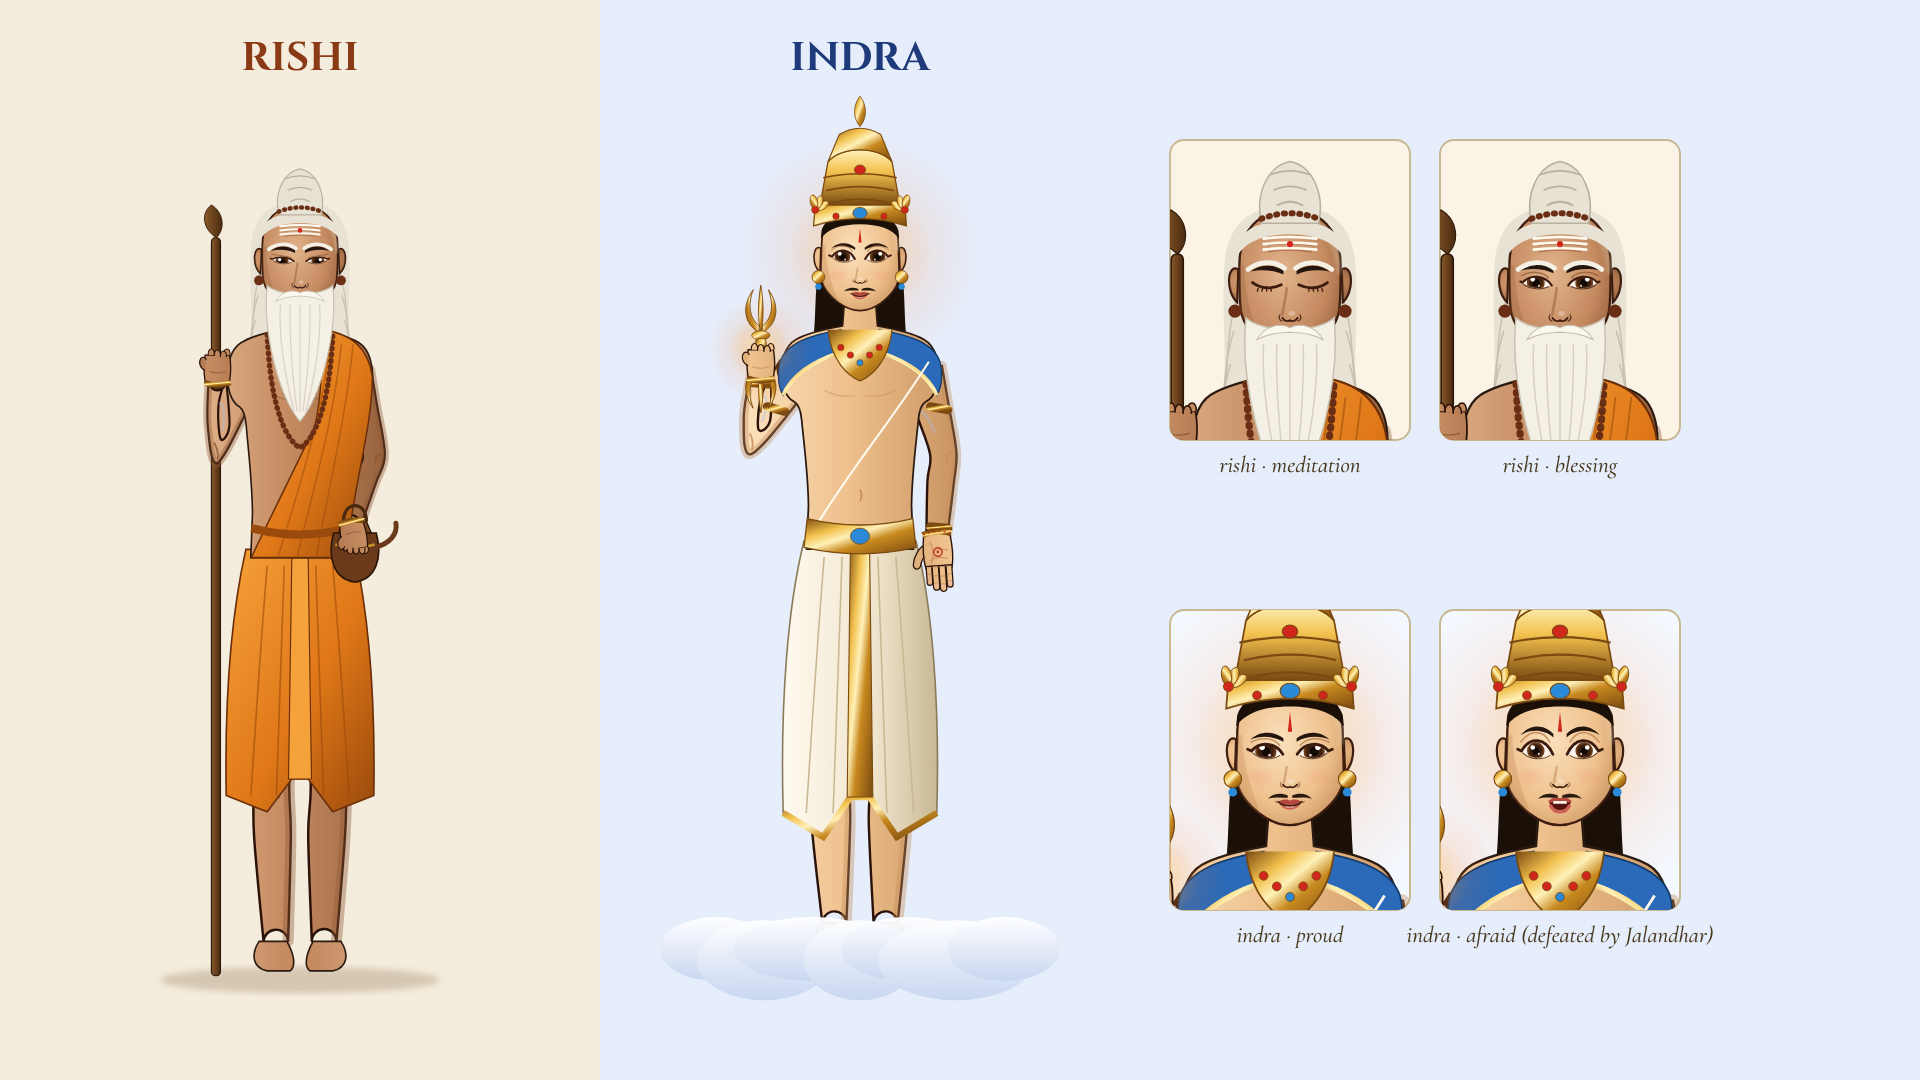
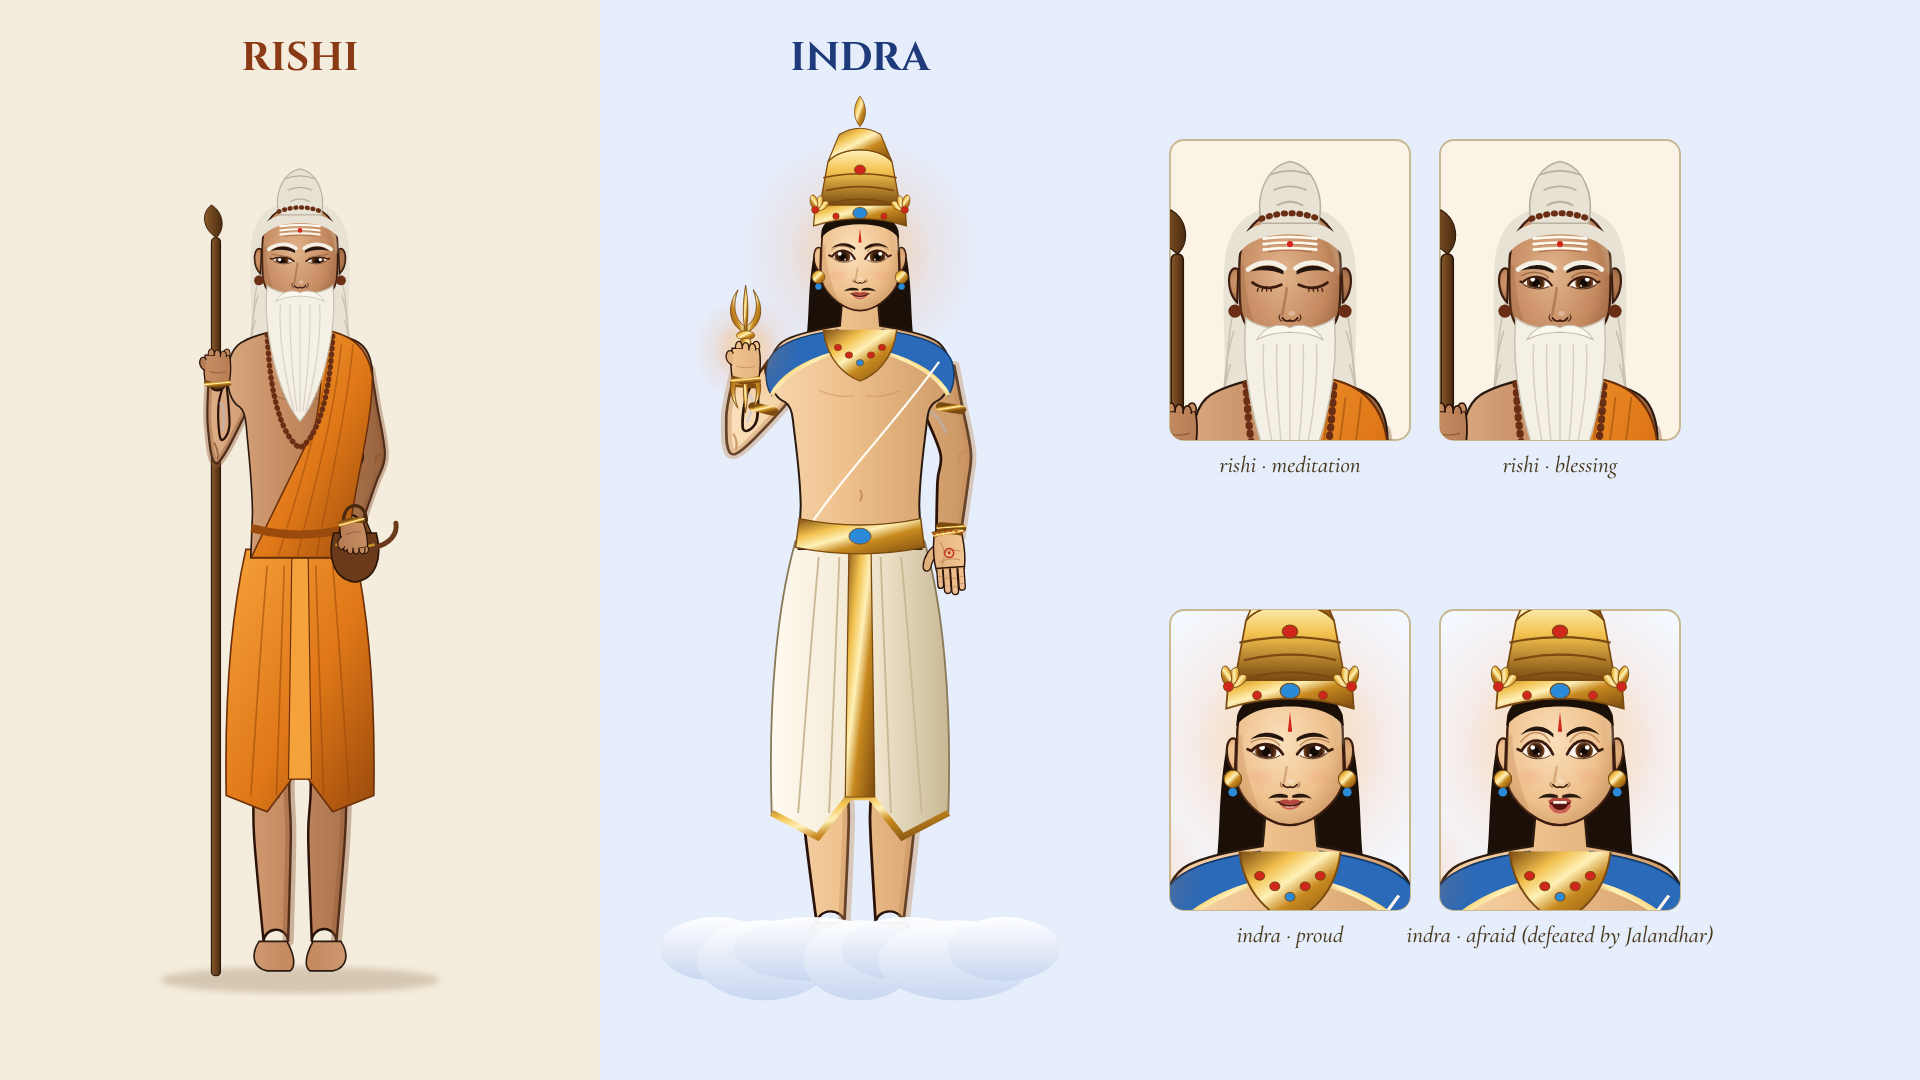
Indra: body 15% fuller
Claude-Session: https://claude.ai/code/session_01X3ArEdZK7W9b78YVvUKCgo

Changed region(s): [[0.375, 0.275, 0.5312, 0.8556], [0.5938, 0.7333, 0.875, 0.8556]]

diff --git a/devotional-studio/style-frames/rishi-indra.js b/devotional-studio/style-frames/rishi-indra.js
@@ -116,6 +116,7 @@ function indra(x, y, s, o = {}) {
   const clouds = [...Array(7)].map((_, i) => `<ellipse cx="${-180 + i * 60}" cy="${930 + (i % 2) * 14}" rx="${70 + (i % 3) * 14}" ry="${40 + (i % 2) * 10}" fill="url(#cloud)" opacity=".96"/>`).join('');
   return `<g transform="translate(${x},${y}) scale(${s})">
     <circle cx="0" cy="60" r="150" fill="url(#lampGlow)" opacity=".6"/>
+    <g transform="scale(1.15,1)">
     ${legs(SK, SH)}
     <!-- white silk dhoti with gold border -->
     <path d="M-70 420 C -90 500 -100 620 -96 760 L -46 790 L -12 740 L 12 740 L 46 790 L 96 760 C 100 620 90 500 70 420Z" fill="url(#silkW)" stroke="#8a7a5a" stroke-width="2"/>
@@ -136,14 +137,15 @@ function indra(x, y, s, o = {}) {
     <path d="M86 196 C 40 270 -20 340 -60 410" stroke="#fffaf0" stroke-width="2.6" fill="none"/>
     <path d="M-66 392 Q 0 408 66 392 L 70 428 Q 0 444 -70 428Z" fill="url(#gold)" stroke="#7a4a10" stroke-width="1.6"/>
     <ellipse cx="0" cy="414" rx="12" ry="10" fill="#2a8ad8" stroke="#7a4a10"/>
+    </g>
     ${F.faceP(face)}
     <path d="M-48 32 C -44 18 -28 12 0 12 C 28 12 44 18 48 32 L 49 42 C 40 30 24 24 0 24 C -24 24 -40 30 -49 42Z" fill="#1a1008"/>
     <path d="M-2 ${by - 4} L 0 ${by - 22} L 2 ${by - 4}Z" fill="#d1261c"/>
     ${crown}
     ${[-1, 1].map(sx => `<g transform="translate(${sx * 52},90)"><circle r="8" fill="url(#gold)" stroke="#7a4a10"/><circle cy="12" r="4" fill="#2a8ad8"/></g>`).join('')}
-    ${vajra(-124, 180, .95)}
-    <g transform="translate(-124,214) scale(.66)">${A.holdingHand(SK, SH, -1, false)}</g>
-    <g transform="translate(96,414) rotate(176) scale(.66)">${A.openPalm(SK, SH, 1)}</g>
+    ${vajra(-143, 180, .95)}
+    <g transform="translate(-143,214) scale(.7)">${A.holdingHand(SK, SH, -1, false)}</g>
+    <g transform="translate(110,414) rotate(176) scale(.7)">${A.openPalm(SK, SH, 1)}</g>
     ${clouds}
   </g>`;
 }
